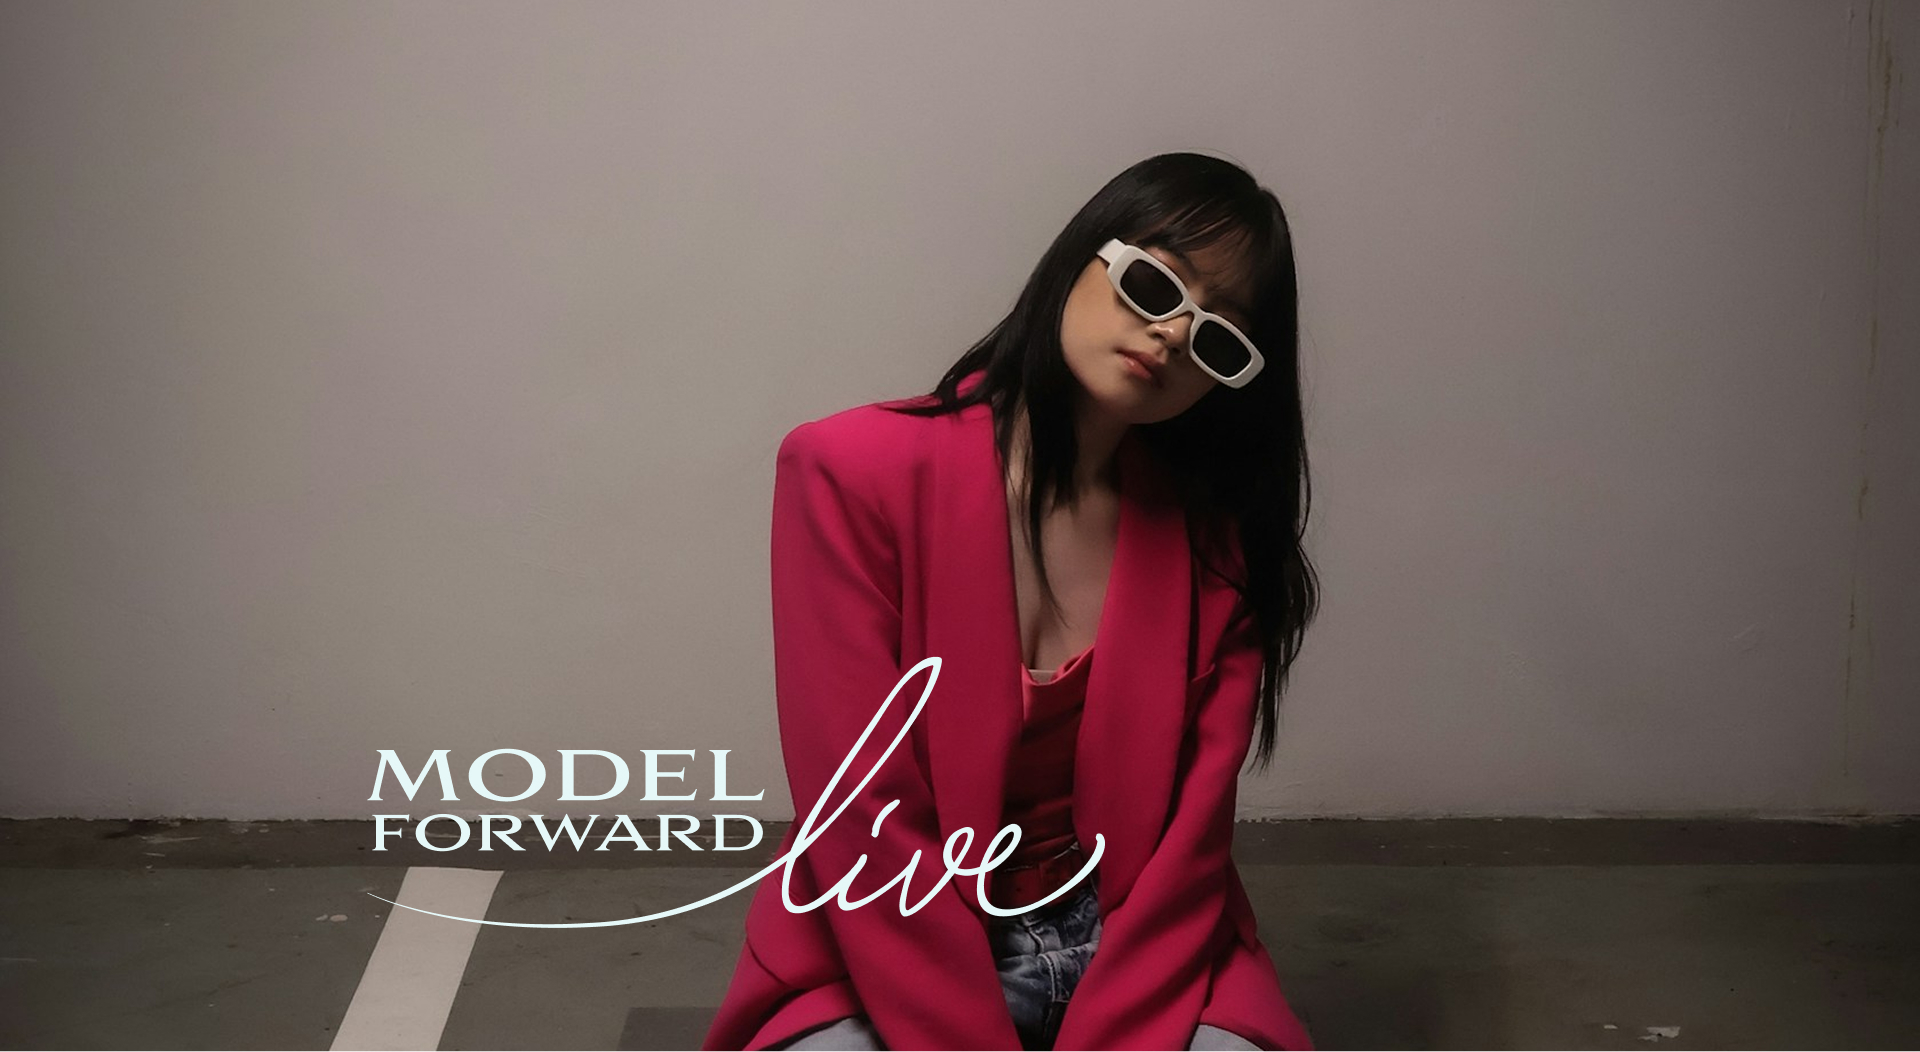
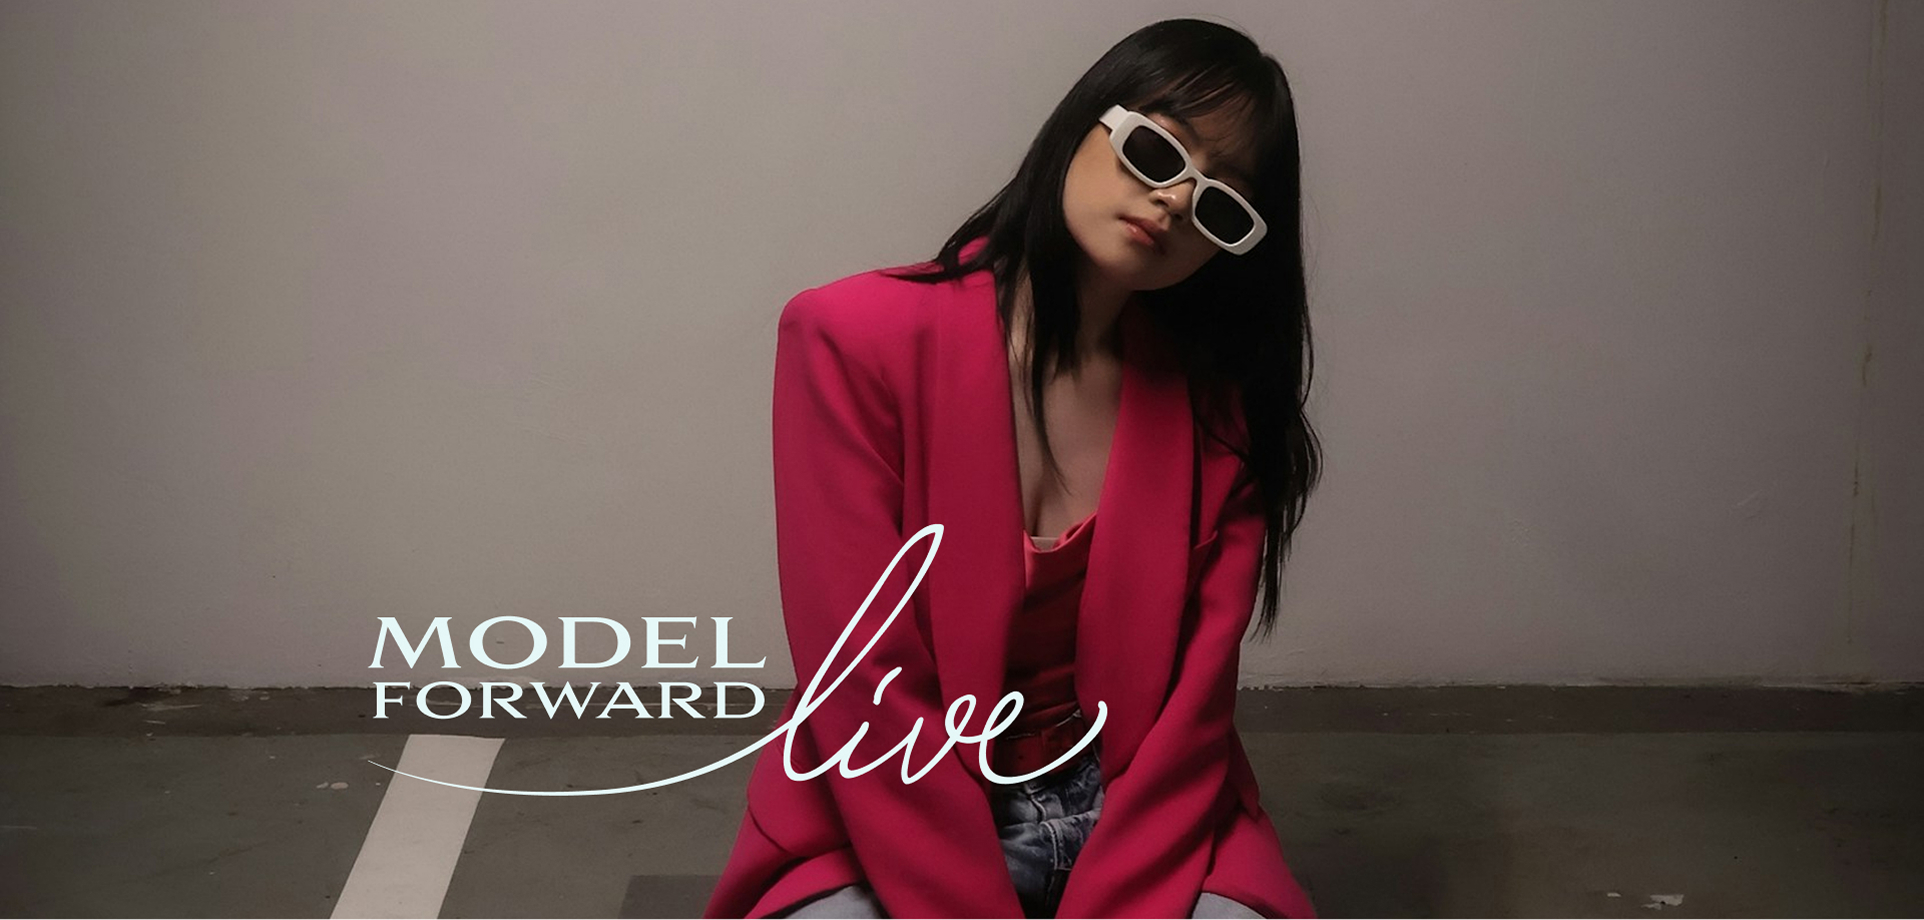
feat: Add new footer component, landing page blocks, event detail page, and related assets.

Changed region(s): [[0.0, 0.0, 1.0, 1.0], [0.8438, 0.9739, 0.875, 1.0]]

diff --git a/src/components/blocks/landing/landing-hero.jsx b/src/components/blocks/landing/landing-hero.jsx
@@ -4,6 +4,9 @@ import {
     Parallax
 } from "react-scroll-parallax";
 import { useEffect } from "react";
+import useEmblaCarousel from "embla-carousel-react";
+import Fade from "embla-carousel-fade";
+import Autoplay from "embla-carousel-autoplay";
 
 import Image from "next/image";
 import { Heading } from "@/components/utils/typography";
@@ -18,32 +21,67 @@ export default function LandingHero({ data, variant = "default" }) {
         }
     }, [variant]);
 
+    const [emblaRef] = useEmblaCarousel({ loop: true, duration: 20 }, [
+        Fade(),
+        Autoplay({ delay: 5000, stopOnInteraction: false })
+    ]);
+
     return (
         <ParallaxProvider>
-            <section className={cn("w-full overflow-hidden",
+            <section className={cn("w-full overflow-hidden bg-white",
                 variant === "parallax" ? "sticky top-0 z-0 h-auto max-h-[768px] sm:max-h-[992px] xl:max-h-[1150px] 2xl:max-h-[1380px] 3xl:max-h-[1720px]" : "relative h-[576px] sm:h-[576px] xl:h-screen")}>
                 <Parallax translateY={variant === "parallax" ? ['7%', '-7%'] : ['0%', '0%']} className="w-full h-full">
-                    <picture className="w-full h-full block scale-[1.15] origin-center">
-                        <source
-                            media="(max-width: 640px)"
-                            srcSet={data?.backgroundMedia?.mediaUrl}
-                        />
-                        <Image
-                            src={data?.backgroundMedia?.url}
-                            alt={data?.backgroundMedia?.alt || "Hero Background"}
-                            // fill
-                            // sizes="(max-width: 768px) 100vw, (max-width: 1200px) 50vw, 100vw"
-                            width={1920}
-                            height={1080}
-                            className="w-full h-full min-h-[376px] sm:min-h-[420px] xl:min-h-[576px] 2xl:min-h-[768px] 3xl:min-h-[900px]  object-cover object-bottom"
-                            unoptimized
-                            priority
-                        />
-                    </picture>
+                    <div className="w-full h-full transform scale-[1.15] origin-center">
+                        <div
+                            className="w-full max-w-full overflow-hidden"
+                            ref={emblaRef}>
+                            <div className="flex touch-pan-y touch-pinch-zoom">
+                                {Array.isArray(data?.backgroundMedia) && data.backgroundMedia.length > 0 ? (
+                                    data.backgroundMedia.map((item) => (
+                                        <div key={item?.id} className="flex-[0_0_100%] min-w-0 select-none" >
+                                            <picture className="w-full h-full min-h-[376px] sm:min-h-[420px] xl:min-h-[576px] 2xl:min-h-[768px] 3xl:min-h-[900px] block origin-center">
+                                                <source
+                                                    media="(max-width: 640px)"
+                                                    srcSet={item?.mediaUrl || item?.url}
+                                                />
+                                                <Image
+                                                    src={item?.url}
+                                                    alt={item?.alt || "Hero Background"}
+                                                    width={1920}
+                                                    height={1080}
+                                                    className="w-full h-full object-cover"
+                                                    unoptimized
+                                                    priority={item?.id === 1}
+                                                />
+                                            </picture>
+                                        </div>
+                                    ))
+                                ) : data?.backgroundMedia ? (
+                                    <div className="flex-[0_0_100%] min-w-0 select-none">
+                                        <picture className="w-full h-full min-h-[376px] sm:min-h-[420px] xl:min-h-[590px] 2xl:min-h-[768px] 3xl:min-h-[900px] block origin-center">
+                                            <source
+                                                media="(max-width: 640px)"
+                                                srcSet={data.backgroundMedia?.mediaUrl || data.backgroundMedia?.url}
+                                            />
+                                            <Image
+                                                src={data.backgroundMedia?.url}
+                                                alt={data.backgroundMedia?.alt || "Hero Background"}
+                                                width={1920}
+                                                height={1080}
+                                                className="w-full h-full object-cover"
+                                                unoptimized
+                                                priority
+                                            />
+                                        </picture>
+                                    </div>
+                                ) : null}
+                            </div>
+                        </div>
+                    </div>
                 </Parallax>
                 {data?.title && (
-                    <RevealAnimation className="absolute inset-0 z-10 flex items-center justify-center">
-                        <div className="container text-center">
+                    <RevealAnimation className="absolute inset-0 z-10 flex items-center justify-center pointer-events-none">
+                        <div className="container text-center pointer-events-auto">
                             <Heading
                                 as="div"
                                 size="h6"

diff --git a/src/lib/data/landing-data.js b/src/lib/data/landing-data.js
@@ -2,12 +2,32 @@
 export const landingData = {
     hero: {
         title: null,
-        backgroundMedia: {
-            type: "image",
-            url: "/images/home-hero-1.jpg",
-            mediaUrl: "/images/home-hero-1.jpg",
-            alt: "Hero Background"
-        }
+        backgroundMedia: [
+            {
+                id: 1,
+                url: "/images/home-hero-1.jpg",
+                mediaUrl: "/images/home-hero-1.jpg",
+                alt: "Hero Background 1"
+            },
+            {
+                id: 2,
+                url: "/images/home-hero-2.jpg",
+                mediaUrl: "/images/home-hero-2.jpg",
+                alt: "Hero Background 2"
+            },
+            {
+                id: 3,
+                url: "/images/home-hero-3.jpg",
+                mediaUrl: "/images/home-hero-3.jpg",
+                alt: "Hero Background 3"
+            },
+            {
+                id: 4,
+                url: "/images/home-hero-4.jpg",
+                mediaUrl: "/images/home-hero-4.jpg",
+                alt: "Hero Background 4"
+            }
+        ]
     },
     partners: {
         title: null,
@@ -71,8 +91,8 @@ export const landingData = {
         title: "Get the App. Book Your Spot.",
         description: "Your all-in-one platform to explore opportunities, book experiences, and stay connected.",
         qrCodeImage: "/images/qr-code.png",
-        appLinkPlayStore: "#",
-        appLinkAppStore: "#"
+        appLinkPlayStore: "https://play.google.com/store/apps/details?id=com.dlu.app&pcampaignid=web_share",
+        appLinkAppStore: "https://apps.apple.com/gb/app/dont-look-up-fashion/id6746240383"
     },
     intro: {
         title: "Where Fashion Events Become Movements",
@@ -84,32 +104,7 @@ export const landingData = {
         items: [
             {
                 id: "1",
-                title: "Where Fashion meets Entrepreneurship",
-                eventLogo: "/images/event-logo-1.svg",
-                media: {
-                    type: "image",
-                    url: "/images/event-1.jpg",
-                    alt: "Where Fashion meets Entrepreneurship"
-                },
-                slug: "stylepreneur",
-                date: "28 Jan 2025",
-                category: "EVENT",
-            },
-            {
-                id: "2",
-                title: "where the next generation of models rise.",
-                eventLogo: "/images/event-logo-2.svg",
-                media: {
-                    type: "image",
-                    url: "/images/event-2.jpg",
-                    alt: "where the next generation of models rise."
-                },
-                slug: "#",
-                date: "July 2025",
-                category: "EVENT",
-            },
-            {
-                id: "3",
+                isActive: true,
                 title: "complete modeling career launchpad",
                 eventLogo: "/images/event-logo-3.svg",
                 media: {
@@ -122,7 +117,36 @@ export const landingData = {
                 category: "EVENT",
             },
             {
+                id: "2",
+                isActive: true,
+                title: "Where Fashion meets Entrepreneurship",
+                eventLogo: "/images/event-logo-1.svg",
+                media: {
+                    type: "image",
+                    url: "/images/event-1.jpg",
+                    alt: "Where Fashion meets Entrepreneurship"
+                },
+                slug: "stylepreneur",
+                date: "28 Jan 2025",
+                category: "EVENT",
+            },
+            {
+                id: "3",
+                isActive: false,
+                title: "where the next generation of models rise.",
+                eventLogo: "/images/event-logo-2.svg",
+                media: {
+                    type: "image",
+                    url: "/images/event-2.jpg",
+                    alt: "where the next generation of models rise."
+                },
+                slug: "#",
+                date: "July 2025",
+                category: "EVENT",
+            },
+            {
                 id: "4",
+                isActive: false,
                 title: "Style Sprouts (8–10): Emotional expression, creativity & social skills",
                 eventLogo: "/images/event-logo-4.svg",
                 media: {
@@ -136,6 +160,7 @@ export const landingData = {
             },
             {
                 id: "5",
+                isActive: false,
                 title: "Fashion Leaders (14–15): Leadership, decision-making & identity building",
                 eventLogo: "/images/event-logo-4.svg",
                 media: {
@@ -149,6 +174,7 @@ export const landingData = {
             },
             {
                 id: "6",
+                isActive: false,
                 title: "Style Innovators (11–13): Confidence, empathy, collaboration & self-management",
                 eventLogo: "/images/event-logo-4.svg",
                 media: {

diff --git a/src/components/layout/footer.jsx b/src/components/layout/footer.jsx
@@ -19,7 +19,7 @@ export default function Footer({ footerData, locale }) {
     const { socialLinks } = footerData;
 
     return (
-        <footer className="w-full py-8 xl:pt-[70px] xl:pb-[20px] 2xl:pt-[100px] 2xl:pb-[30px] 3xl:pt-[135px] 3xl:pb-[40px] overflow-hidden bg-[#2d2d2d] relative z-0">
+        <footer className="w-full py-8 xl:pt-[70px] xl:pb-[20px] 2xl:pt-[100px] 2xl:pb-[30px] 3xl:pt-[135px] 3xl:pb-[40px] overflow-hidden bg-[#2d2d2d] relative z-1">
             <div className="container">
                 <div className="flex flex-wrap -mx-1 sm:-mx-2 xl:-mx-3 [&>*]:p-1 sm:[&>*]:p-2 xl:[&>*]:px-3">
                     {footerData?.logoWhiteUrl && (
@@ -158,19 +158,19 @@ export default function Footer({ footerData, locale }) {
                     </div> */}
 
                     <div className="w-full mb-5 lg:mb-5 2xl:mb-6 3xl:mb-7">
-                        <div className="flex flex-wrap items-center justify-center lg:justify-between -mx-1 sm:-mx-2 xl:-mx-3 [&>*]:p-1 sm:[&>*]:p-2 xl:[&>*]:px-3">
+                        <div className="flex flex-wrap items-center justify-center lg:justify-between -mx-2 sm:-mx-2 xl:-mx-3 [&>*]:p-2 sm:[&>*]:p-2 xl:[&>*]:px-3 not:hover:grayscale">
                             {footerData?.partners?.map((item) => (
                                 <div key={item?.id}
                                 >
                                     <a href={item?.slug}
-                                        className="w-6 sm:w-14 lg:w-12 2xl:w-18 3xl:w-22 h-auto block hover:scale-110 transition"
+                                        className="w-12 sm:w-14 lg:w-16 2xl:w-20 3xl:w-22 h-auto aspect-2/1 block hover:scale-110 transition hover:grayscale-0 "
                                         target="_blank">
                                         <Image
                                             src={item?.media?.url}
                                             alt={item?.media?.alt}
                                             width={80}
                                             height={80}
-                                            className="w-full h-full block hover:scale-110 transition"
+                                            className="w-full h-full block hover:scale-120 transition object-contain"
                                             unoptimized
                                         />
                                     </a>

diff --git a/src/lib/data/events-data.js b/src/lib/data/events-data.js
@@ -56,8 +56,8 @@ export const eventsData = [
             title: "Get the App. Book Your Spot.",
             description: "Your all-in-one platform to explore opportunities, book experiences, and stay connected.",
             qrCodeImage: "/images/qr-code.png",
-            appLinkPlayStore: "#",
-            appLinkAppStore: "#"
+            appLinkPlayStore: "https://play.google.com/store/apps/details?id=com.dlu.app&pcampaignid=web_share",
+            appLinkAppStore: "https://apps.apple.com/gb/app/dont-look-up-fashion/id6746240383"
         },
         whoIsThisFor: {
             media: {
@@ -302,8 +302,8 @@ export const eventsData = [
             title: "Get the App. Book Your Spot.",
             description: "Your all-in-one platform to explore opportunities, book experiences, and stay connected.",
             qrCodeImage: "/images/qr-code.png",
-            appLinkPlayStore: "#",
-            appLinkAppStore: "#"
+            appLinkPlayStore: "https://play.google.com/store/apps/details?id=com.dlu.app&pcampaignid=web_share",
+            appLinkAppStore: "https://apps.apple.com/gb/app/dont-look-up-fashion/id6746240383"
         },
         whoIsThisFor: {
             media: {
@@ -421,12 +421,12 @@ export const eventsData = [
                 },
                 {
                     id: 2,
-                    mediaUrl: "/images/events-joinEvent-1.png",
+                    mediaUrl: "/images/events-joinEvent-2.png",
                     description: "<h5>Now let’s dive right into our purpose - Booking for the event!</h5><h5>Step 2— Explore & Book the Event</h5><p>Browse the Stylepreneur event inside the app, view sessions and coaches, and secure your spot with just a few taps.</p>",
                 },
                 {
                     id: 3,
-                    mediaUrl: "/images/events-joinEvent-1.png",
+                    mediaUrl: "/images/events-joinEvent-3.png",
                     description: "<h5>After Finishing booking, You are in your last step!</h5><h5>Step 3 — Get Ready & Show Up</h5><p>Once you get booking confirmation, your e-ticket will be provided. Please download the ticket. In the event, dont forget to show the QR Code, so that you get your pass.</p><p>Yes, its that easy.<br/>Just arrive, connect, and experience Stylepreneur.</p>",
                 },
             ],

diff --git a/src/components/blocks/landing/landing-featured-events.jsx b/src/components/blocks/landing/landing-featured-events.jsx
@@ -6,6 +6,7 @@ import parse from "html-react-parser";
 import Image from "next/image";
 import Link from "next/link";
 import RevealAnimation from "@/components/utils/reveal-animation";
+import { cn } from "@/lib/utils";
 
 
 export default function LandingFeaturedEvents({ data }) {
@@ -39,8 +40,12 @@ export default function LandingFeaturedEvents({ data }) {
             <div className="flex flex-wrap -mx-2 sm:-mx-2 md:-mx-4 lg:-mx-6 xl:-mx-8 2xl:-mx-10 3xl:-mx-12">
               {data?.items?.map((item, index) => (
                 <div key={item?.id}
-                  className="w-full 3xs:w-1/2 2xs:w-1/3 sm:w-1/3">
-                  <div className="group w-full h-auto block hover:bg-[#3a3a3a] p-2 sm:p-2 md:p-4 lg:p-6 xl:p-8 2xl:p-10 3xl:p-12 rounded-[8px] transition-all duration-300 hover:[&>div]:scale-105">
+                  className="w-full 3xs:w-1/2 2xs:w-1/3 sm:w-1/3"
+                  title={item?.isActive ? item?.title : "Coming Soon"}
+                >
+                  <div className={cn("group w-full h-auto block hover:bg-[#3a3a3a] p-2 sm:p-2 md:p-4 lg:p-6 xl:p-8 2xl:p-10 3xl:p-12 rounded-[8px] transition-all duration-300 hover:[&>div]:scale-105",
+                    !item?.isActive && "opacity-30 grayscale pointer-events-none")}
+                  >
                     <div className="w-full rounded-[8px] xl:rounded-[10px] aspect-396/510 overflow-hidden mb-3 md:mb-3.5 lg:mb-4 xl:mb-4 2xl:mb-5 3xl:mb-6 transition-all duration-300">
                       <Image
                         src={item?.media?.url}

diff --git a/src/components/blocks/landing/landing-app-download.jsx b/src/components/blocks/landing/landing-app-download.jsx
@@ -57,7 +57,7 @@ export default function LandingAppDownload({ data }) {
                     className="p-0 max-w-[80px] sm:max-w-[100px] lg:max-w-[120px] xl:max-w-[120px] 2xl:max-w-[140px] 3xl:max-w-[160px]"
                     asChild
                   >
-                    <Link href={data?.appLinkPlayStore}>
+                    <Link href={data?.appLinkPlayStore} target="_blank" rel="noopener noreferrer">
                       <Image
                         src={"/images/app-download-playstore.avif"}
                         alt={"app-download-playstore"}
@@ -73,7 +73,7 @@ export default function LandingAppDownload({ data }) {
                     className="p-0 max-w-[80px] sm:max-w-[100px] lg:max-w-[120px] xl:max-w-[120px] 2xl:max-w-[140px] 3xl:max-w-[160px]"
                     asChild
                   >
-                    <Link href={data?.appLinkAppStore}>
+                    <Link href={data?.appLinkAppStore} target="_blank" rel="noopener noreferrer">
                       <Image
                         src={"/images/app-download-appstore.avif"}
                         alt={"app-download-playstore"}

diff --git a/src/components/blocks/landing/landing-intro.jsx b/src/components/blocks/landing/landing-intro.jsx
@@ -9,7 +9,7 @@ export default function LandingIntro({ data }) {
   return (
     <section className="w-full h-auto bg-[#121212] block py-8 sm:py-10 md:py-16 lg:py-24 xl:py-32 2xl:py-36 3xl:py-44">
       <div className="container">
-        <RevealAnimation className="flex flex-wrap">
+        <RevealAnimation className="flex flex-wrap -mx-3 xl:-mx-5 [&>div]:p-3 xl:[&>div]:p-5">
           <div className="w-full sm:w-6/12 ">
             <div className="w-full">
               <Heading

diff --git a/src/app/events/[slug]/page.js b/src/app/events/[slug]/page.js
@@ -34,7 +34,7 @@ export default async function EventDetails({ params }) {
     return (
         <>
             <LandingHero variant="parallax" data={data?.hero} />
-            <div className="relative z-10 bg-white">
+            <div className="relative z-2 bg-white flex flex-col">
                 <LandingPartners variant="eventDetail" data={data?.partners} />
                 <EventsInfo data={data?.eventInfo} />
                 <EventsExpertsSays data={data?.expertsSays} />
